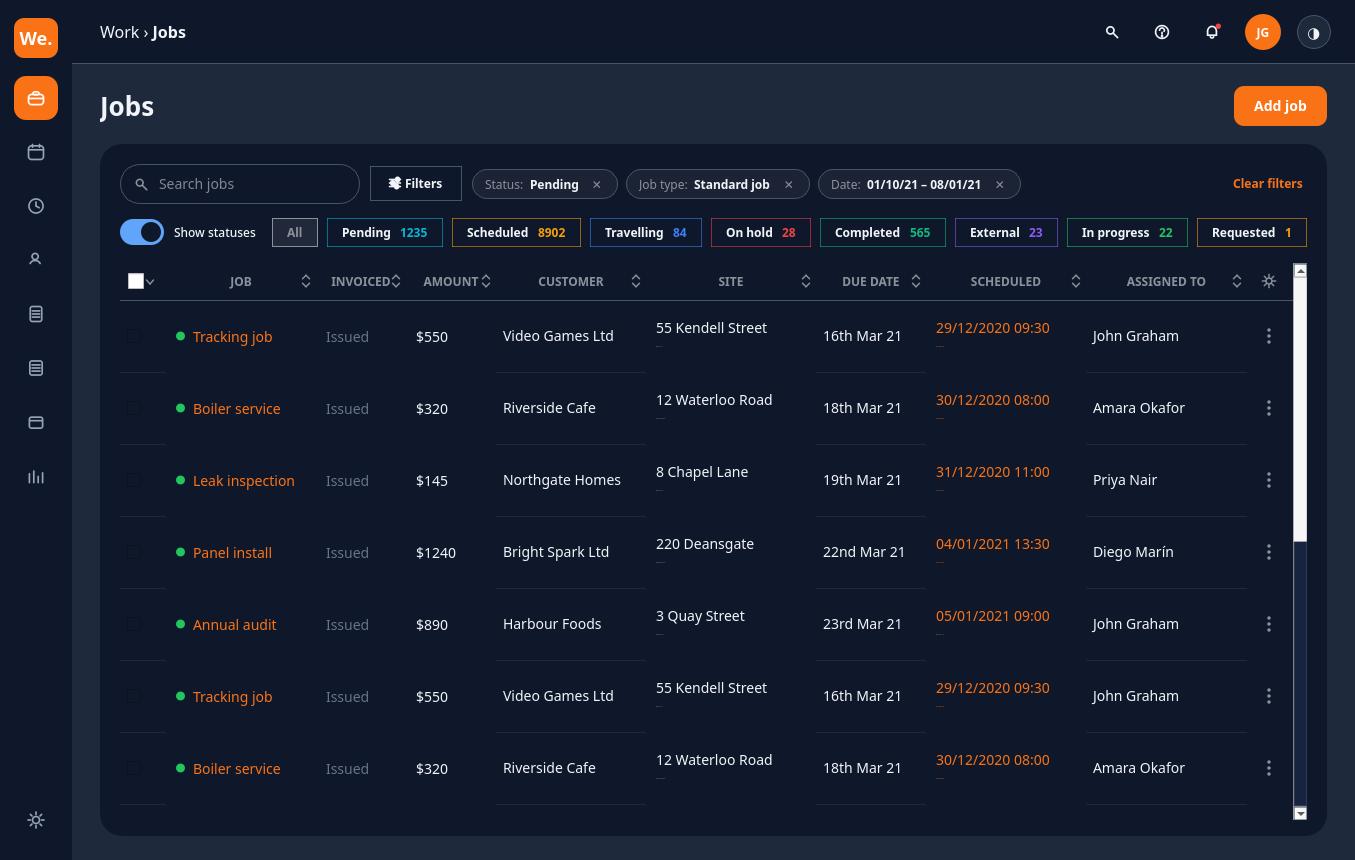
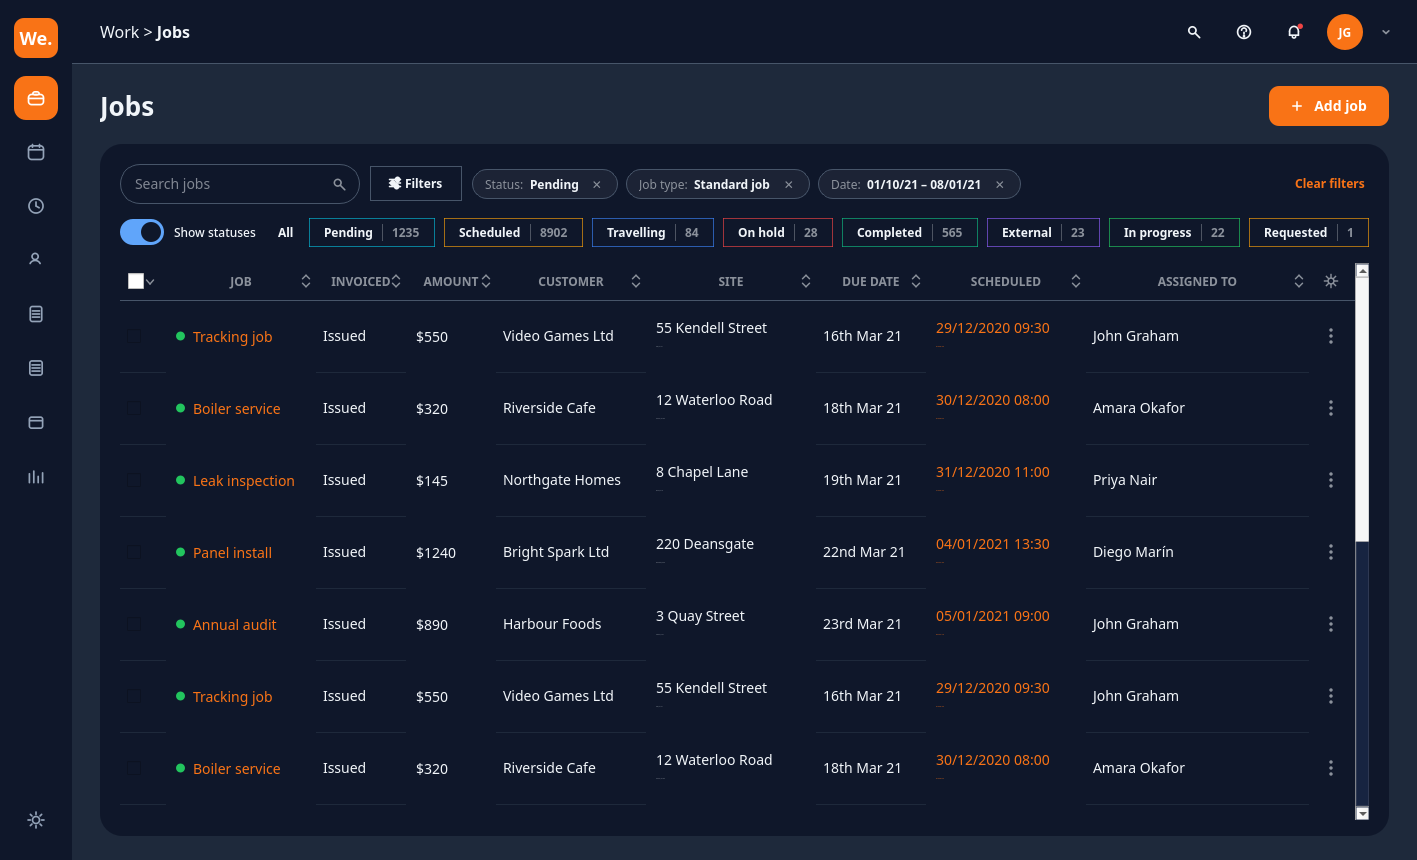
jobs table: second fidelity pass — closer 1:1 with the reference
A second cell-by-cell diff caught more gaps; fixed them (again via hooks, not
one-offs):

- per-column twoline subtitle style: DataTableColumn.subtitleScale /
  subtitleBold + SubtitleStyleRole, so SITE is a smaller muted caption while
  SCHEDULED is two equal orange peer lines (was one global scale).
- toolbar: search magnifier moved to the RIGHT; the 'All' pill is now plain
  text (not a bordered pill); status-pill counts are muted grey with a thin
  vertical divider (were the status hue) — matching the reference.
- example: INVOICED 'Issued' is plain body text (was a light-grey colored
  cell); avatar gains a painted dropdown caret and doubles as the light/dark
  toggle (removed the extra theme button the reference lacks); breadcrumb uses
  '>'; caret is a painted glyph (design_lint blocks unicode-glyph icons).

Full suite 360 passed.

diff --git a/Custom_Widgets/QCustomTableToolbar.py b/Custom_Widgets/QCustomTableToolbar.py
@@ -119,10 +119,12 @@ class _FilterChip(QFrame):
 class _StatusPill(QFrame):
     clicked = Signal(str)
 
-    def __init__(self, key, label, count=None, color="#3b82f6", parent=None):
+    def __init__(self, key, label, count=None, color="#3b82f6", parent=None,
+                 plain=False):
         super().__init__(parent)
         self._key = str(key)
         self._color = color
+        self._plain = plain          # plain = borderless text label (the "All" pill)
         self._checked = False
         self._text = QColor("#0f172a")
         self._muted = QColor("#64748b")
@@ -132,14 +134,22 @@ class _StatusPill(QFrame):
         self.setCursor(Qt.PointingHandCursor)
         self.setSizePolicy(QSizePolicy.Maximum, QSizePolicy.Fixed)
         lay = QHBoxLayout(self)
-        lay.setContentsMargins(14, 5, 14, 5)
+        lay.setContentsMargins((6 if plain else 14), 5, (6 if plain else 14), 5)
         lay.setSpacing(9)
         self._name = QLabel(label, self)
         self._name.setObjectName("tableStatusPillName")
+        # thin vertical divider between label and count (like the reference)
+        self._divider = QFrame(self)
+        self._divider.setObjectName("tableStatusPillDivider")
+        self._divider.setFrameShape(QFrame.VLine)
+        self._divider.setFixedWidth(1)
         self._count = QLabel("" if count is None else str(count), self)
         self._count.setObjectName("tableStatusPillCount")
-        self._count.setVisible(count is not None)
+        has_count = count is not None and not plain
+        self._divider.setVisible(has_count)
+        self._count.setVisible(has_count)
         lay.addWidget(self._name)
+        lay.addWidget(self._divider)
         lay.addWidget(self._count)
         self._restyle()
 
@@ -157,7 +167,9 @@ class _StatusPill(QFrame):
 
     def setCount(self, count):
         self._count.setText("" if count is None else str(count))
-        self._count.setVisible(count is not None)
+        has_count = count is not None and not self._plain
+        self._count.setVisible(has_count)
+        self._divider.setVisible(has_count)
 
     def setColor(self, color):
         self._color = color
@@ -175,19 +187,29 @@ class _StatusPill(QFrame):
         super().mouseReleaseEvent(event)
 
     def _restyle(self):
-        # neutral pills (the "All" pill uses the muted colour as its hue)
         hue = self._color
-        h = self.sizeHint().height() or 30
         radius = 15
-        border = hue if self._checked else _rgba(hue, 0.55)
-        bg = _rgba(hue, 0.14) if self._checked else self._surface.name()
-        name_col = (QColor(hue).name() if self._checked else self._text.name())
+        if self._plain:
+            # borderless text label (the "All" pill): dark when active, muted otherwise
+            name_col = self._text.name() if self._checked else self._muted.name()
+            self.setStyleSheet(
+                "#tableStatusPill { border: none; background: transparent; }"
+                "#tableStatusPillName { color: %s; font-weight: 600;"
+                " background: transparent; }" % name_col)
+            return
+        # outlined pill: status-hue border, dark label, MUTED grey count with a
+        # thin divider (matches the reference - the count is not the hue colour)
+        border = hue if self._checked else _rgba(hue, 0.65)
+        bg = _rgba(hue, 0.12) if self._checked else self._surface.name()
+        name_col = self._text.name()
         self.setStyleSheet(
             "#tableStatusPill { border: 1.4px solid %s; border-radius: %dpx;"
             " background: %s; }"
             "#tableStatusPillName { color: %s; font-weight: 600; background: transparent; }"
-            "#tableStatusPillCount { color: %s; font-weight: 700; background: transparent; }"
-            % (border, radius, bg, name_col, QColor(hue).name()))
+            "#tableStatusPillDivider { color: %s; background: %s; border: none; }"
+            "#tableStatusPillCount { color: %s; font-weight: 600; background: transparent; }"
+            % (border, radius, bg, name_col, _rgba(self._muted, 0.5),
+               _rgba(self._muted, 0.5), self._muted.name()))
 
 
 # --------------------------------------------------------------------------- #
@@ -268,8 +290,9 @@ class QCustomTableToolbar(QWidget):
         self._input.setPlaceholderText("Search")
         self._input.setFrame(False)
         self._input.textChanged.connect(self.searchChanged.emit)
+        # input fills the field, magnifier sits on the RIGHT (matches the reference)
+        slay.addWidget(self._input, 1)
         slay.addWidget(self._searchIcon)
-        slay.addWidget(self._input)
         self._search.setFixedHeight(40)
         self._search.setMinimumWidth(240)
         row1.addWidget(self._search)
@@ -317,9 +340,9 @@ class QCustomTableToolbar(QWidget):
         row2.addStretch(1)
         root.addLayout(row2)
 
-        # the built-in "All" pill (neutral hue, selected by default)
+        # the built-in "All" pill (plain text, selected by default)
         self._allPill = _StatusPill(self.ALL_KEY, "All", None, self._c["muted"],
-                                    self._pillBox)
+                                    self._pillBox, plain=True)
         self._allPill.setChecked(True)
         self._allPill.clicked.connect(self._onStatusClicked)
         self._pillLay.addWidget(self._allPill)

diff --git a/Custom_Widgets/QCustomDataTable.py b/Custom_Widgets/QCustomDataTable.py
@@ -52,6 +52,7 @@ _TYPE_ALIGN = {
 RendererRole = Qt.UserRole + 1     # str: "" | status | link | colored | twoline | badge | currency
 SubtitleRole = Qt.UserRole + 2     # str: the second line for the twoline renderer
 CellColorRole = Qt.UserRole + 3    # str: an explicit dot/text/badge colour (hex or name)
+SubtitleStyleRole = Qt.UserRole + 4  # (scale, bold) per-column twoline subtitle style, or None
 
 # The renderers the delegate understands (also the allowed `renderer=` values).
 CELL_RENDERERS = ("status", "link", "colored", "twoline", "badge", "currency")
@@ -88,12 +89,17 @@ class DataTableColumn(object):
     colorKey   a row-dict key whose value IS the colour for that cell (fully
                per-row). Wins over colorMap/color.
     subtitleKey  row-dict key for the second line of a "twoline" cell.
+    subtitleScale  points to add to the subtitle font (None inherits the
+               delegate default; 0 = a peer line same size as the title,
+               -1 = a smaller caption). Per column so e.g. an address can be a
+               caption while a pair of timestamps are equal peers.
+    subtitleBold  force the subtitle weight (None inherits).
     """
 
     def __init__(self, key, title=None, type="text", width=None,
                  align=None, formatter=None, sortable=True,
                  renderer=None, color=None, colorMap=None, colorKey=None,
-                 subtitleKey=None):
+                 subtitleKey=None, subtitleScale=None, subtitleBold=None):
         self.key = key
         self.title = key if title is None else title
         self.type = type
@@ -106,6 +112,8 @@ class DataTableColumn(object):
         self.colorMap = colorMap
         self.colorKey = colorKey
         self.subtitleKey = subtitleKey
+        self.subtitleScale = subtitleScale
+        self.subtitleBold = subtitleBold
 
     @classmethod
     def ensure(cls, column):
@@ -242,6 +250,10 @@ class QCustomDataTableModel(QAbstractTableModel):
             return column.subtitle(self._rows[row])
         if role == CellColorRole:
             return column.resolveColor(value, self._rows[row])
+        if role == SubtitleStyleRole:
+            if column.subtitleScale is None and column.subtitleBold is None:
+                return None
+            return (column.subtitleScale, column.subtitleBold)
         return None
 
     def setData(self, index, value, role=Qt.EditRole):
@@ -715,7 +727,7 @@ class QCustomDataTableDelegate(QStyledItemDelegate):
             if renderer == "twoline":
                 self._paintTwoLine(painter, option, rect, text,
                                    str(index.data(SubtitleRole) or ""), color,
-                                   model_align)
+                                   model_align, index.data(SubtitleStyleRole))
             elif renderer == "badge":
                 self._paintBadge(painter, option, rect, text, color)
             elif renderer == "status":
@@ -807,7 +819,7 @@ class QCustomDataTableDelegate(QStyledItemDelegate):
         painter.restore()
 
     def _paintTwoLine(self, painter, option, rect, title, subtitle, color,
-                      model_align=None):
+                      model_align=None, sub_style=None):
         fm = option.fontMetrics
         line = fm.height()
         block = line * 2
@@ -824,10 +836,19 @@ class QCustomDataTableDelegate(QStyledItemDelegate):
         painter.setPen(QPen(title_col))
         painter.drawText(title_rect, align, self._elide(option, title, rect.width()))
         if subtitle:
+            # per-column (scale, bold) override the delegate defaults
+            scale = self._subtitleScale
+            bold = self._subtitleBold
+            if sub_style is not None:
+                s_scale, s_bold = sub_style
+                if s_scale is not None:
+                    scale = s_scale
+                if s_bold is not None:
+                    bold = s_bold
             f = QFont(option.font)
-            f.setPointSizeF(max(1.0, option.font.pointSizeF() + self._subtitleScale))
-            if self._subtitleBold is not None:
-                f.setBold(self._subtitleBold)
+            f.setPointSizeF(max(1.0, option.font.pointSizeF() + scale))
+            if bold is not None:
+                f.setBold(bold)
             painter.setFont(f)
             painter.setPen(QPen(sub_col))
             painter.drawText(sub_rect, align,

diff --git a/tests/test_qcustom_datatable.py b/tests/test_qcustom_datatable.py
@@ -500,6 +500,19 @@ class TestCustomizationHooks:
         t.resize(700, 160)
         assert not t.grab().isNull()
 
+    def test_per_column_subtitle_style_role(self, qapp):
+        # a column can set its own subtitle scale/weight (caption vs peer line);
+        # the model serves it via SubtitleStyleRole, None when unset.
+        from Custom_Widgets.QCustomDataTable import (
+            QCustomDataTableModel, DataTableColumn, SubtitleStyleRole)
+        m = QCustomDataTableModel(
+            [DataTableColumn("a", renderer="twoline", subtitleKey="a2"),
+             DataTableColumn("b", renderer="twoline", subtitleKey="b2",
+                             subtitleScale=0, subtitleBold=True)],
+            [{"a": "x", "a2": "y", "b": "p", "b2": "q"}])
+        assert m.data(m.index(0, 0), SubtitleStyleRole) is None
+        assert m.data(m.index(0, 1), SubtitleStyleRole) == (0, True)
+
     def test_header_gear_click_signal(self, qapp):
         from Custom_Widgets.QCustomDataTable import QCustomDataTable, DataTableColumn
         t = QCustomDataTable()
